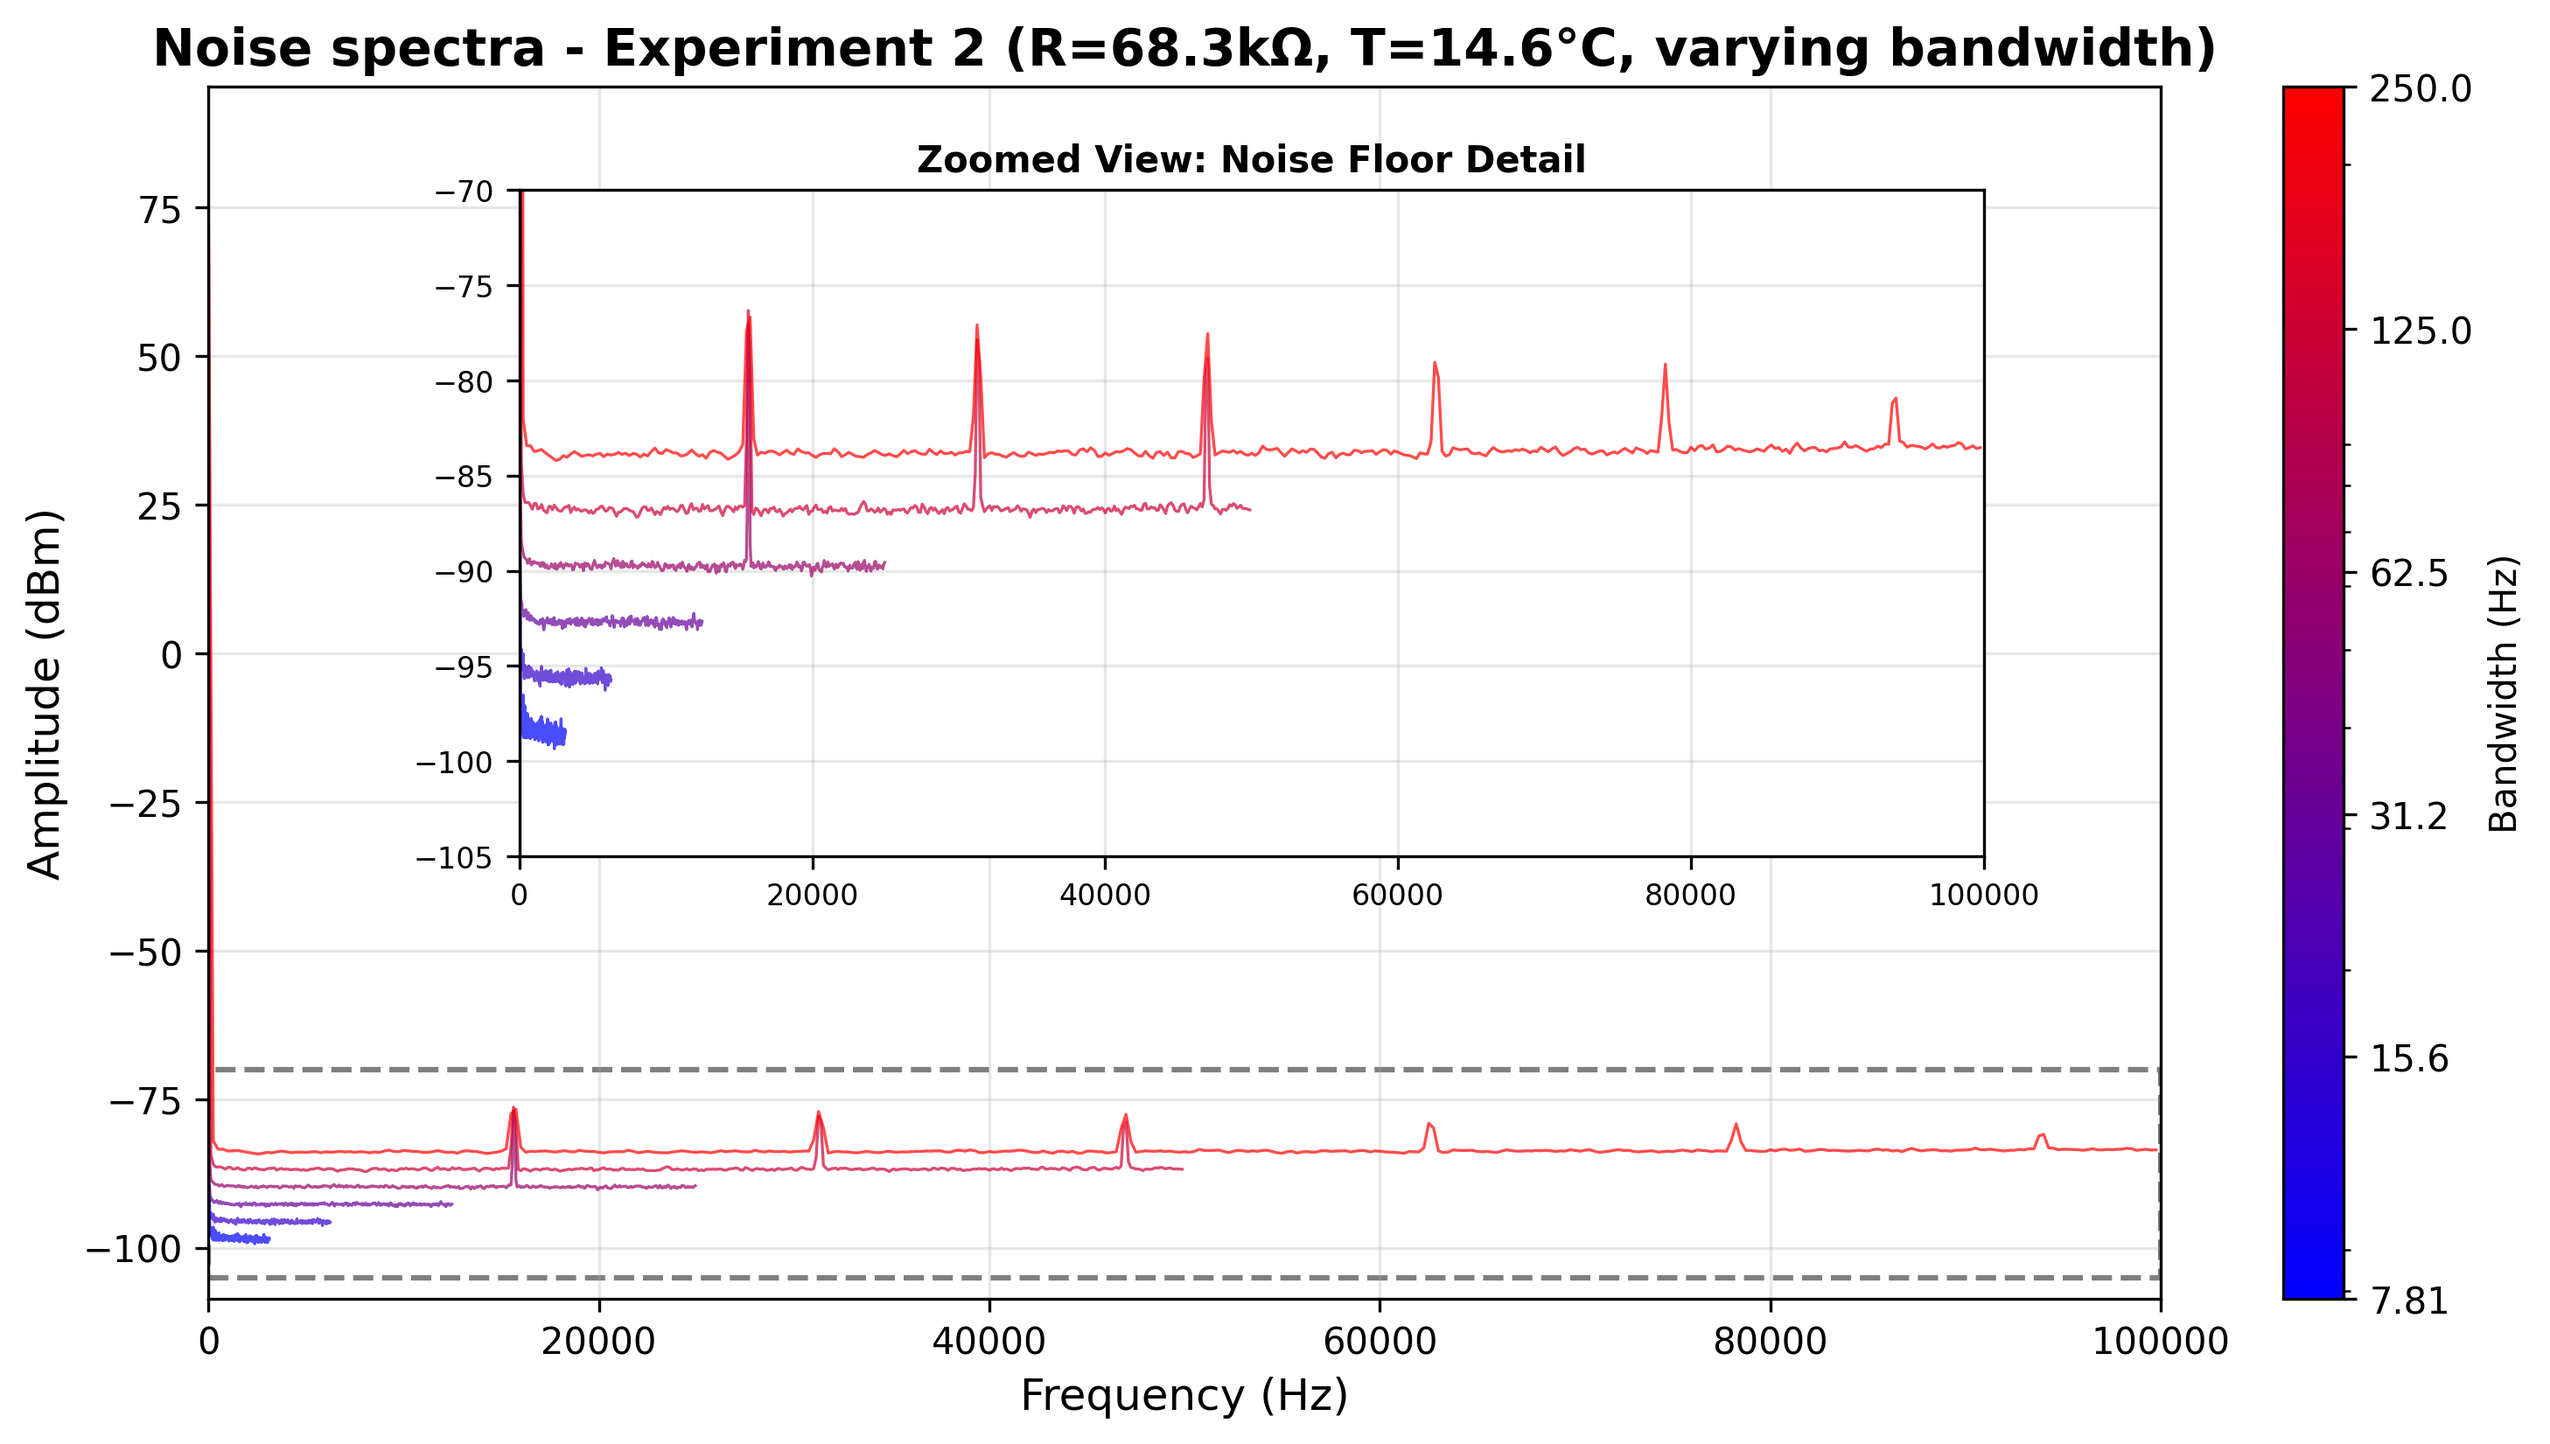
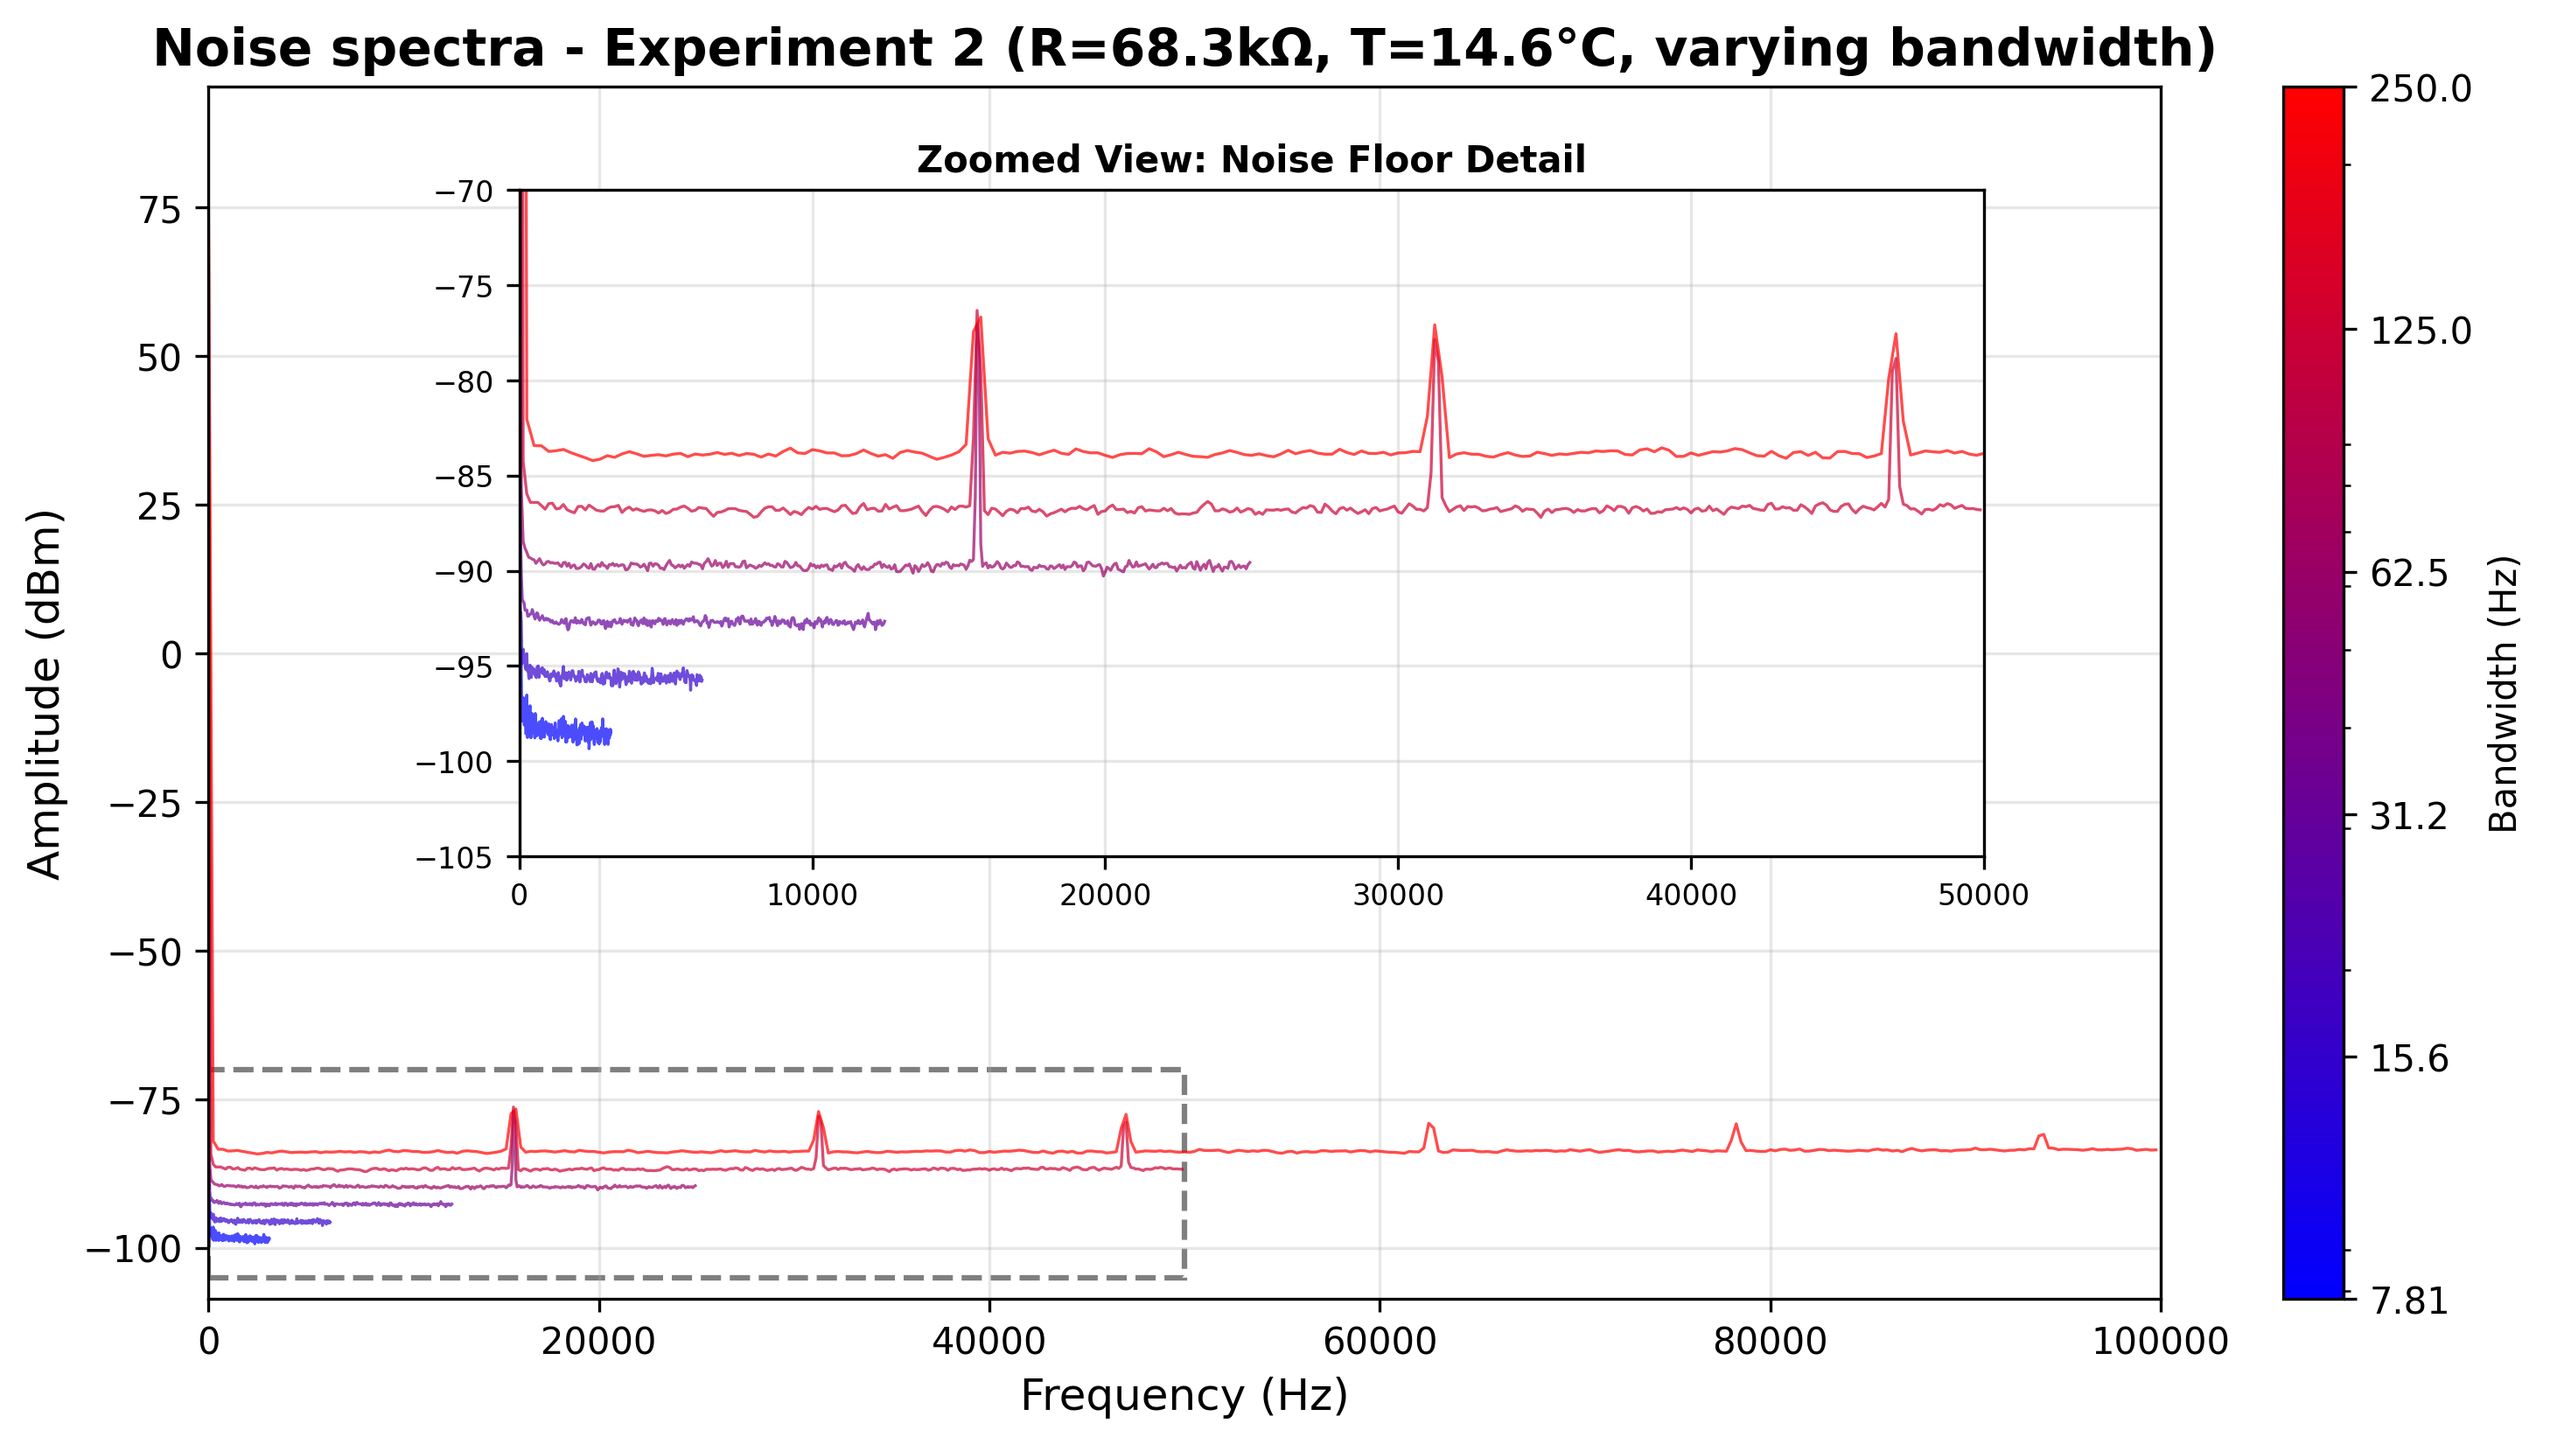
1

diff --git a/Data analysis/Noise in a electric sercet/Experiment 2/analyze_noise_vs_friq_exp2.py b/Data analysis/Noise in a electric sercet/Experiment 2/analyze_noise_vs_friq_exp2.py
@@ -28,8 +28,18 @@ WINDOW_CORRECTION_FACTOR = 1.30  # C_win for Hamming window
 SIGMA_MULTIPLIER = 2  # Set to 1 for 1σ (68% CI), 2 for 2σ (95% CI)
 
 # Physical parameters for Boltzmann constant calculation
-TEMPERATURE = 287.75  # K (14.6°C converted to Kelvin)
-RESISTANCE = 68300  # Ω (68.3 kΩ)
+TEMPERATURE = 333.15  # K (14.6°C converted to Kelvin)
+TEMPERATURE_ERR = 0.2  # K (uncertainty in temperature)
+
+# Resistance: R_total = R_resistor + R_0 (internal resistance from Experiment 1)
+R_RESISTOR = 68300  # Ω (68.3 kΩ nominal resistor)
+R_RESISTOR_ERR = 100  # Ω (resistor tolerance)
+R_0 = 419  # Ω (internal resistance from Experiment 1)
+R_0_ERR = 281  # Ω (uncertainty from Experiment 1, 1σ)
+# Total resistance with combined uncertainty (add in quadrature)
+RESISTANCE = R_RESISTOR + R_0  # 68719 Ω
+RESISTANCE_ERR = np.sqrt(R_RESISTOR_ERR**2 + R_0_ERR**2)  # ~299 Ω
+
 BOLTZMANN_EXPECTED = 1.380649e-23  # J/K (known value)
 # =============================================================================
 
@@ -143,7 +153,7 @@ def perform_weighted_linear_fit(x, y, sigma_y):
     return a, b, a_err, b_err, chi2, reduced_chi2
 
 
-def calculate_boltzmann_constant(a, a_err, T, R):
+def calculate_boltzmann_constant(a, a_err, T, T_err, R, R_err):
     """
     Calculate Boltzmann constant from slope of V² vs Δf fit.
 
@@ -158,8 +168,12 @@ def calculate_boltzmann_constant(a, a_err, T, R):
         Uncertainty in slope (1σ)
     T : float
         Temperature (K)
+    T_err : float
+        Uncertainty in temperature (1σ)
     R : float
         Resistance (Ω)
+    R_err : float
+        Uncertainty in resistance (1σ)
 
     Returns:
     --------
@@ -169,8 +183,12 @@ def calculate_boltzmann_constant(a, a_err, T, R):
         Uncertainty in k (1σ)
     """
     k = a / (4 * T * R)
-    # Error propagation: k_err/k = a_err/a (T and R are exact)
-    k_err = a_err / (4 * T * R)
+    # Error propagation: (Δk/k)² = (Δa/a)² + (ΔT/T)² + (ΔR/R)²
+    relative_err_a = a_err / a
+    relative_err_T = T_err / T if T_err > 0 else 0
+    relative_err_R = R_err / R if R_err > 0 else 0
+    relative_err_k = np.sqrt(relative_err_a**2 + relative_err_T**2 + relative_err_R**2)
+    k_err = k * relative_err_k
     return k, k_err
 
 
@@ -235,8 +253,11 @@ def main():
     print("="*60)
     print("EXPERIMENT 2 - FIXED PARAMETERS")
     print("="*60)
-    print(f"Temperature (T):  {TEMPERATURE} K ({TEMPERATURE - 273.15:.1f}°C)")
-    print(f"Resistance (R):   {RESISTANCE} Ω ({RESISTANCE/1000:.1f} kΩ)")
+    print(f"Temperature (T):  {TEMPERATURE} ± {TEMPERATURE_ERR} K ({TEMPERATURE - 273.15:.1f}°C)")
+    print(f"Resistance:")
+    print(f"  R_resistor:     {R_RESISTOR} ± {R_RESISTOR_ERR} Ω")
+    print(f"  R₀ (from Exp1): {R_0} ± {R_0_ERR} Ω")
+    print(f"  R_total:        {RESISTANCE} ± {RESISTANCE_ERR:.0f} Ω ({RESISTANCE/1000:.2f} kΩ)")
     print("Variable:         FFT Bandwidth (Δf)")
     print("="*60 + "\n")
 
@@ -294,7 +315,7 @@ def main():
     print("DERIVED PHYSICAL QUANTITIES")
     print("="*60)
 
-    k_measured, k_err_1sigma = calculate_boltzmann_constant(a, a_err, TEMPERATURE, RESISTANCE)
+    k_measured, k_err_1sigma = calculate_boltzmann_constant(a, a_err, TEMPERATURE, TEMPERATURE_ERR, RESISTANCE, RESISTANCE_ERR)
     k_err_reported = k_err_1sigma * SIGMA_MULTIPLIER
 
     print(f"\nBoltzmann constant (k):")
@@ -302,6 +323,11 @@ def main():
     print(f"  k = a / (4TR)")
     print(f"  Measured:  k = ({k_measured:.4e} ± {k_err_reported:.4e}) J/K  ({SIGMA_MULTIPLIER}σ)")
     print(f"  Expected:  k = {BOLTZMANN_EXPECTED:.4e} J/K")
+    print(f"\n  Error contributions (1σ):")
+    print(f"    From slope (Δa/a):       {100*a_err/a:.2f}%")
+    print(f"    From temperature (ΔT/T): {100*TEMPERATURE_ERR/TEMPERATURE:.2f}%")
+    print(f"    From resistance (ΔR/R):  {100*RESISTANCE_ERR/RESISTANCE:.2f}%")
+    print(f"    Combined (Δk/k):         {100*k_err_1sigma/k_measured:.2f}%")
 
     # Calculate relative error
     relative_error = abs(k_measured - BOLTZMANN_EXPECTED) / BOLTZMANN_EXPECTED * 100
@@ -347,7 +373,8 @@ def main():
         f'k_expected = {BOLTZMANN_EXPECTED:.2e} J/K',
         f'Relative error: {relative_error:.1f}%',
         '',
-        f'Fixed: R={RESISTANCE/1000:.1f}kΩ, T={TEMPERATURE:.1f}K',
+        f'Fixed: R={RESISTANCE/1000:.2f}±{RESISTANCE_ERR/1000:.2f}kΩ',
+        f'       T={TEMPERATURE:.2f}±{TEMPERATURE_ERR}K',
         f'Corrections: G={PREAMPLIFIER_GAIN}, C_win={WINDOW_CORRECTION_FACTOR}'
     ])
     props = dict(boxstyle='round', facecolor='wheat', alpha=0.8)
@@ -357,7 +384,7 @@ def main():
     # Labels and formatting
     ax.set_xlabel('Bandwidth Δf (Hz)', fontsize=12, fontweight='bold')
     ax.set_ylabel('Noise Amplitude V²_corr (V²)', fontsize=12, fontweight='bold')
-    ax.set_title('White Noise Amplitude vs Bandwidth - Experiment 2\n(R=68.3kΩ, T=14.6°C)',
+    ax.set_title(f'White Noise Amplitude vs Bandwidth - Experiment 2\n(R={RESISTANCE/1000:.2f}kΩ, T=14.6°C)',
                  fontsize=13, fontweight='bold')
     ax.legend(fontsize=10, loc='lower right')
     ax.grid(True, alpha=0.3)

diff --git a/Data analysis/Noise in a electric sercet/Experiment 2/noise_analysis_exp2.py b/Data analysis/Noise in a electric sercet/Experiment 2/noise_analysis_exp2.py
@@ -159,7 +159,7 @@ def main():
         axins.plot(frequencies, amplitudes, color=color, alpha=0.7, linewidth=0.8)
 
     # Set zoom limits for inset (focus on noise floor region)
-    axins.set_xlim(0, 100000)
+    axins.set_xlim(0, 50000)
     axins.set_ylim(-105, -70)
     axins.grid(True, alpha=0.3)
     axins.set_title('Zoomed View: Noise Floor Detail', fontsize=10, fontweight='bold', pad=5)
@@ -167,7 +167,7 @@ def main():
 
     # Add a rectangle in the main plot to show zoomed region
     from matplotlib.patches import Rectangle
-    rect = Rectangle((0, -105), 100000, 35, linewidth=1.5, edgecolor='black',
+    rect = Rectangle((0, -105), 50000, 35, linewidth=1.5, edgecolor='black',
                      facecolor='none', linestyle='--', alpha=0.5)
     ax.add_patch(rect)
 

diff --git a/Data analysis/Noise in a electric sercet/Experiment 1/analyze_noise_vs_resistance.py b/Data analysis/Noise in a electric sercet/Experiment 1/analyze_noise_vs_resistance.py
@@ -18,7 +18,7 @@ WINDOW_CORRECTION_FACTOR = 1.30  # C_win for Hamming window
 SIGMA_MULTIPLIER = 2  # Set to 1 for 1σ (68% CI), 2 for 2σ (95% CI)
 
 # Physical parameters for Boltzmann constant calculation
-TEMPERATURE = 287.75  # K (room temperature)
+TEMPERATURE = 287.75 # K (room temperature)
 DELTA_F = 250  # Hz (bandwidth)
 BOLTZMANN_EXPECTED = 1.380649e-23  # J/K (known value)
 # =============================================================================
